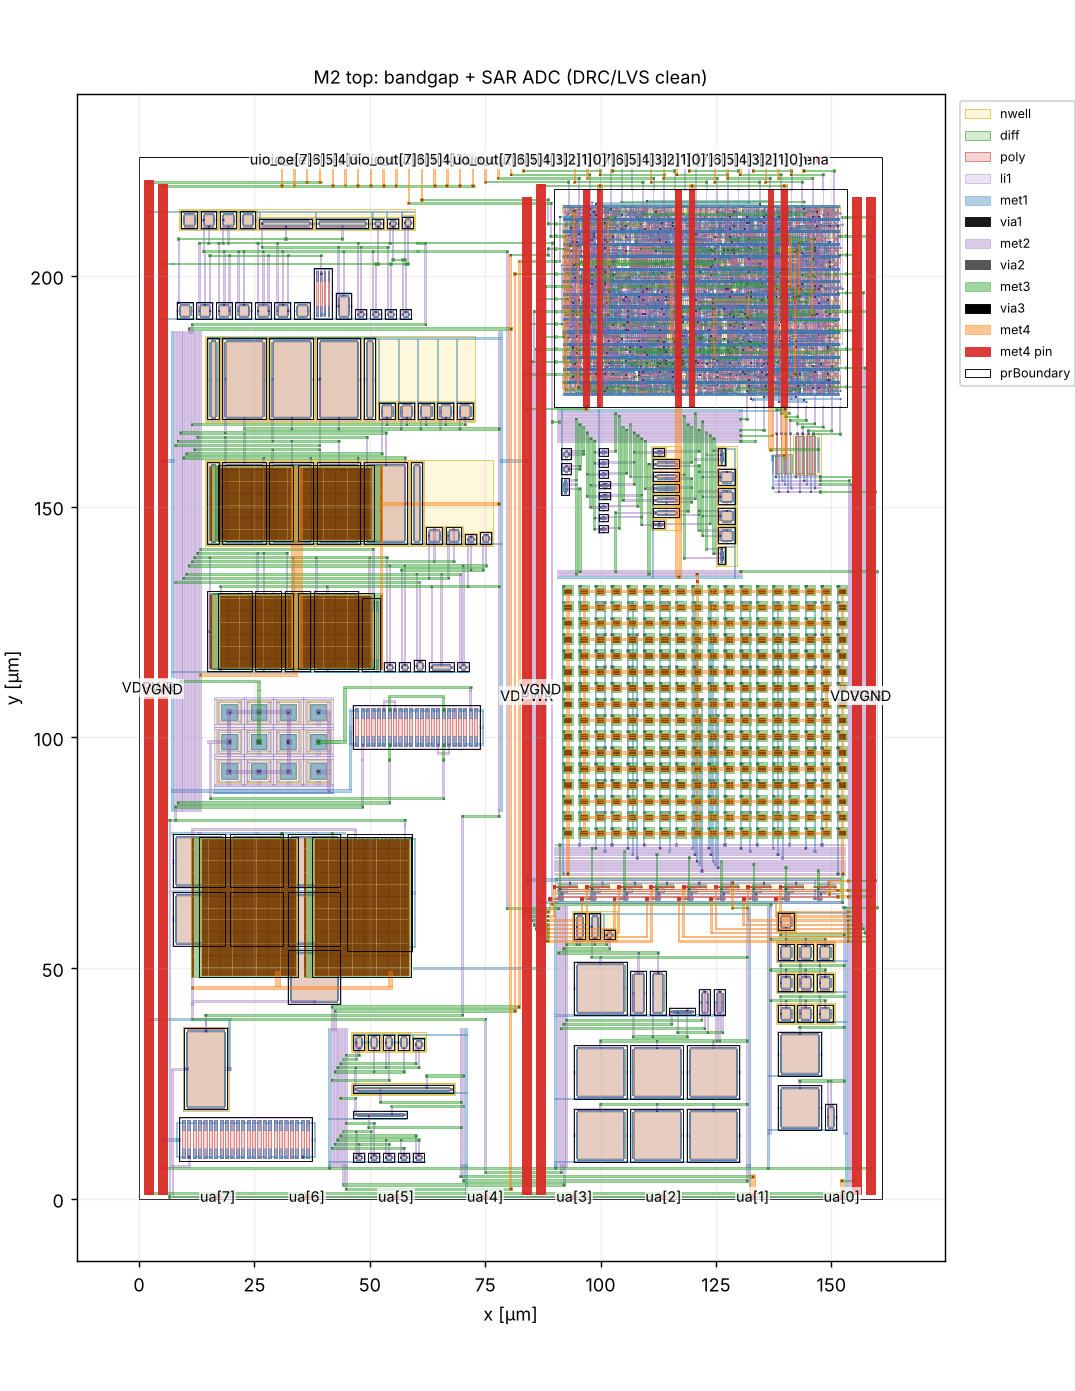
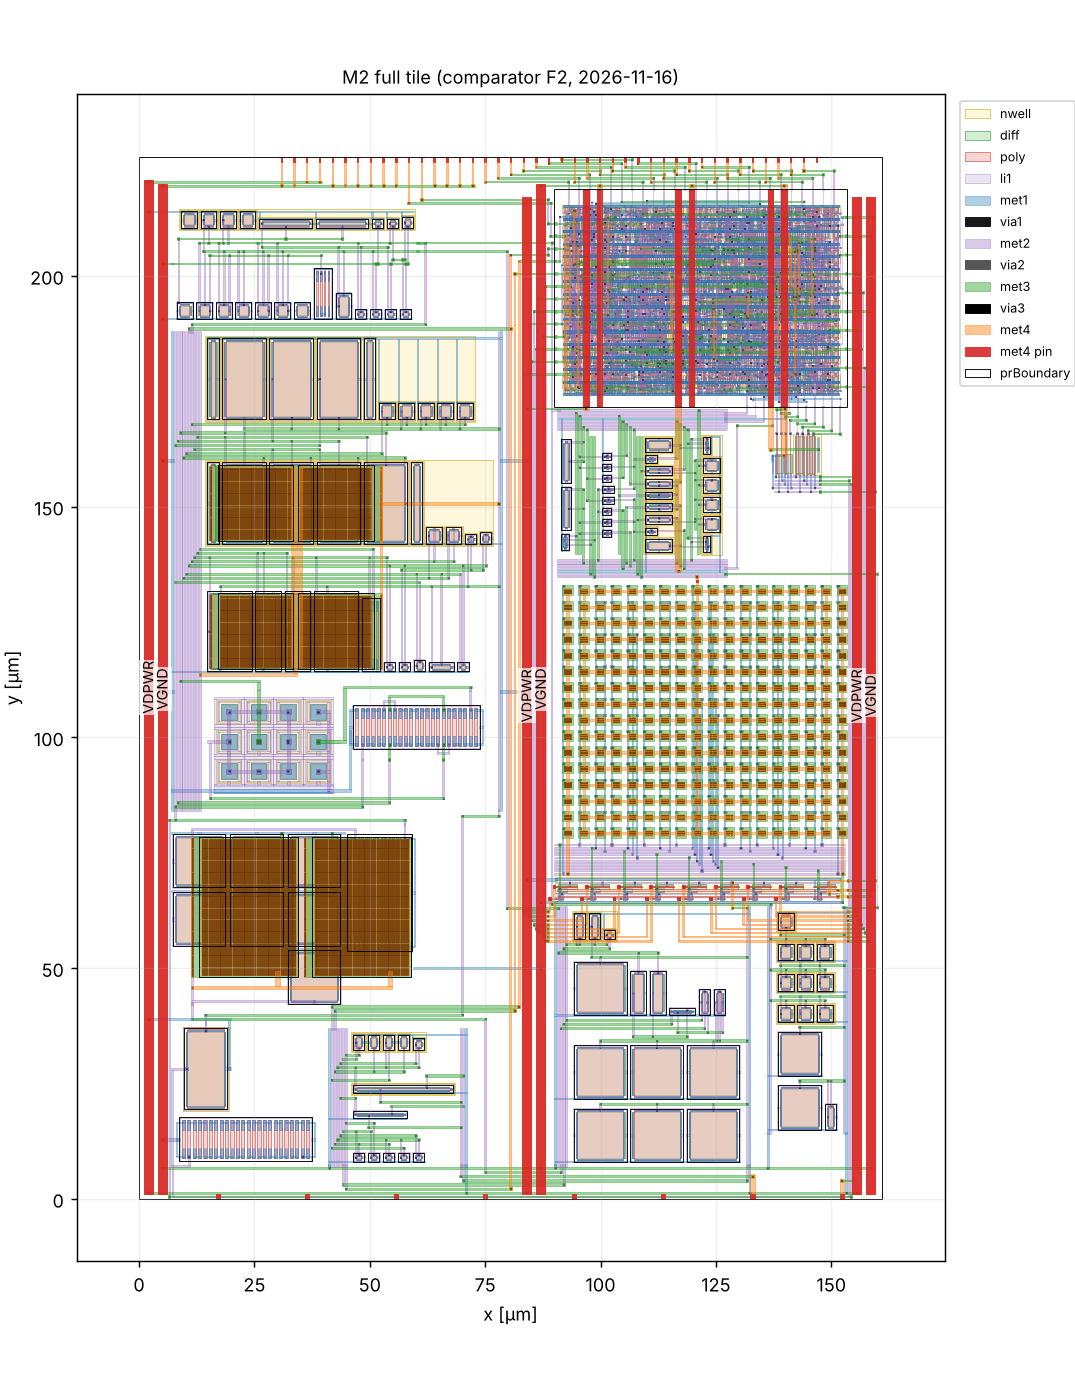
M2 post-layout: extracted tile = schematic codes (5/5); docs and pictures
sim/m2/README.md, results.md; stage_plan I4 g and stage 6; layout_plan post-layout paragraph;
material/layout/m2_top.png and comparator.png re-rendered.

Claude-Session: https://claude.ai/code/session_018xb9mH8bN9u9RTJdbtix1L

diff --git a/sim/m2/README.md b/sim/m2/README.md
@@ -1,0 +1,52 @@
+# M2 post-layout simulation: the whole tile
+
+Full conversions on `tt_um_chiranjitpatel_sar_adc`, driven only through its pins (as from the TT demo board).
+tt corner, 27 °C, VDPWR 1.8 V (Phase 3 key test, `CLAUDE.md`).
+
+| File | What |
+|---|---|
+| `make_tb.py [vin ...]` | writes `tb_m2_sch.spice` and `tb_m2_rc.spice` (default 5 inputs, 0.05–1.17 V) |
+| `decode.py` | decodes the codes 0.2 µs after each EOC rise, writes `results.md` |
+| `results.md` | schematic vs extracted vs ideal codes |
+
+Netlists:
+- **sch**: `layout/cells/m2_top_ref.spice` (written by `layout/m2_top.py`: the xschem analog subckts + LibreLane's
+  `adc_digital` gate-level netlist, the same netlist LVS uses).
+- **rc**: `python3 layout/m1_pex.py m2` → `sim/out/layout/m2_rc/m2_rc.spice`. Flat R+C of everything except
+  `adc_digital` (3258 R, 2858 C). The digital block is instanced from its LibreLane netlist on the extracted pin
+  nets (its timing is signed off by LibreLane STA); its met4 power straps stay in the extraction, because the
+  comparator and the inmux take VDPWR through them.
+
+Setup: internal reference (BG_PD = VREF_OE = REF_SEL = 0), INSEL = 0 (ua[0]), clk 1 MHz, START high, one
+conversion every 10 µs from 3 µs (the transient starts from the operating point, so the reference is settled;
+startup is covered in `sim/m1`). Pad models from `CLAUDE.md` rule 2 on ua[0] and ua[1] (ua[1] with a DMM load).
+
+## Result (2026-11-16, comparator F2)
+
+| vin (V) | ideal floor(256 vin / 1.2143) | sch | rc |
+|---|---|---|---|
+| 0.050 | 10 (10.54) | 10 | 10 |
+| 0.310 | 65 (65.35) | 65 | 65 |
+| 0.600 | 126 (126.49) | 127 | 127 |
+| 0.900 | 189 (189.74) | 190 | 190 |
+| 1.170 | 246 (246.66) | 247 | 247 |
+
+The extracted tile gives the schematic's code at every input. The schematic sits +1 code above floor() at
+the three upper inputs (126.49 → 127 etc.); the stage 8 / I3 runs showed the same (reference and switch
+details), it is common to both netlists. Run time: 34 min (sch), 51 min (rc) for 5 conversions.
+
+## What this test found (all fixed)
+
+1. **Comparator offset, −40 LSB.** The first rc run read 0 / 25 / 86 / 150 / 207 (sch 10 / 65 / 127 / 190 / 247).
+   The extracted comparator alone had a −64 mV offset: 2 fF of layout imbalance on a latch node moved its
+   toggle point by 25 to > 80 mV. Fixed in the circuit (xp/xn load caps, longer preamp load) and the layout
+   (mirrored buses): `sim/comparator/README.md`.
+2. **Comparator / inmux supply through the digital block.** Their VDPWR comes from digital straps 116.84 /
+   136.84, which reach the VDPWR stripe only through adc_digital's own power grid (std-cell rails, < 1 Ω
+   estimated). The first extraction deleted the block with its straps: the comparator floated, every code 0.
+   `m1_pex.py` now keeps the straps and stands in for the grid with a met3 bar. In the real layout this path is
+   LVS-clean; a direct strap-to-stripe tie would be more robust (optional, before the freeze).
+3. **Simulator settings.** `sim/m2` had no `.spiceinit` (sky130 compatibility mode, one thread): the runs took
+   > 2 h for one conversion. With it, the first clock edge failed with "timestep too small" in an xhigh_po
+   resistor (its R depends on abs(V), a kink at 0 V): `.options rshunt=1e12` (1 TΩ per node, ~1 pA) fixes it.
+   Settings: `reltol=1e-5 abstol=1e-12 vntol=1e-6 method=gear rshunt=1e12`.

diff --git a/docs/specs/stage_plan.md b/docs/specs/stage_plan.md
@@ -153,13 +153,13 @@ pass through simulation, layout and LVS on a small block.
 | 3 Bandgap | ✅ 2026-11-01 (resized 11-08) | ✅ 2026-11-08 | ✅ 2026-11-08: corners 63/63, MC σ 17.6 mV (B6 open) | ✅ scripted (M5/M7 units 11-14) | ✅ | ✅ | ✅ 2026-11-14 (M1): VBG −0.7 mV vs schematic | `sim/bandgap/README.md`: VBG 1.215 V (B1 margin), 15.7 µA, PM 82.5°, 22 ppm/°C at tt; raw PSRR at 1 MHz fails (fixed by the stage 5 filter) |
 | 4 PTAT | ✅ 2026-11-07 (resized 11-08) | ✅ 2026-11-08 | ✅ 2026-11-08: corners ≤ 2.6 °C, MC needs 2-point cal. (B13 open) | ✅ scripted | ✅ | ✅ | ✅ 2026-11-14 (M1): VPTAT +0.4 mV | `sim/ptat/README.md`: 0.599 V, 2.00 mV/°C, VBG unaffected, loop PM 79.9° |
 | 5 VREF chain | ✅ 2026-11-07 (filter grown 11-08; MIM + tail 2 × 8/2 11-14) | ✅ 2026-11-08 | ✅ 2026-11-08: 45/45 run, B7 DC open at 1.62 V | ✅ scripted | ✅ | ✅ | ✅ 2026-11-14 (M1): B7 ≥ 22.7 dB at 1 MHz in 45/45 corners (`sim/m1/`) | `sim/vref/README.md`: B7 met at vbg_f, DAC-load error 25 µV, stable with pad, external-ref mode works |
-| 6 Comparator | ✅ 2026-11-07 | ✅ 2026-11-07 | | ✅ scripted 11-16 | ✅ | ✅ | | `sim/comparator/README.md`: 0.44 ns at 1 mV, no net kickback; MC offset/noise in Phase 2 |
+| 6 Comparator | ✅ 2026-11-07 (load caps + MAL 0.5/8 11-16) | ✅ 2026-11-07 | | ✅ scripted 11-16 (mirrored) | ✅ | ✅ | ✅ 2026-11-16: offset +5 mV vs +1 mV sch | `sim/comparator/README.md`: 3.2–3.7 ns at ~1 mV; 2 fF layout imbalance → ≤ 3 mV (was > 80 mV); stage 6 TBs to be re-run for the new sizing; MC offset/noise in Phase 2 |
 | 7 Switch + mux | ✅ 2026-11-07 | ✅ 2026-11-07 | | ✅ scripted 11-16 | ✅ | ✅ | | `sim/inmux/README.md`: A9/A14 met; VPTAT/VBG need clk ≤ 100 kHz (decided) |
 | 8 Cap DAC | ✅ 2026-11-07 | ✅ 2026-11-07 | | ✅ scripted 11-16 | ✅ | ✅ | | `sim/dac/README.md`: all 256 codes, DNL 0.001 / INL 0.0007 LSB (ideal caps), 0.6 pA top-plate leak; MC in Phase 2 |
 | 9 SAR logic | ✅ 2026-11-07 (Verilog) | ✅ RTL + gate-level | | ✅ LibreLane 11-16 | ✅ | ✅ | | `src/sar/README.md`: 0 errors in 2764 conversions; 136 cells, 1217 µm²; SPICE check in I2 |
 | I1 Analog core | — | — | | | | | | merged into I2: the real SAR logic was verified first, so I2 uses it directly |
 | I2 Full ADC | ✅ 2026-11-07 | ✅ 5/5, 18/18 edges, ENOB 8.04 | | | | | | `sim/adc/README.md`: 5/5 exact codes after two fixes (smpt glitch, comparator preamp); edges + sine running |
 | I3 Self-referenced | ✅ 2026-11-07 | ✅ 5/5 exact | | | | | | real bandgap → filter → buffer reference (1.2143 V) |
-| I4 Top level | ✅ | | | ✅ 2026-11-16 (M2) | ✅ Magic + KLayout 0 | ✅ full chip | | `layout/m2_top.py`, `material/layout/m2_top.png`; post-layout sim next |
+| I4 Top level | ✅ | | | ✅ 2026-11-16 (M2) | ✅ Magic + KLayout 0 | ✅ full chip | ✅ 2026-11-16: 5/5 codes rc = sch | `layout/m2_top.py`, `material/layout/m2_top.png`, `sim/m2/README.md`; post-layout found a −40 LSB comparator offset (fixed) |
 
 a = schematic, b = Phase 1 sim, c = Phase 2 sim, d = layout, e = DRC, f = LVS, g = post-layout sim.

diff --git a/docs/specs/layout_plan.md b/docs/specs/layout_plan.md
@@ -149,7 +149,7 @@ integration, full-chip LVS, post-layout simulation.
 Floorplan v4 (`layout/floorplan_v4.py`, positions from the real cells; `layout/m2_place.py` builds a
 placement-only top and writes every pin's absolute position to `sim/out/layout/m2p/pins.json`).
 Right half, bottom to top: vref_buf (M1), vcm_gen (bottom right), `dac` (array + switches, 88.6-153.5 x
-64.0-134.05), comparator (rotated, 90.5-130.6 x 134.6-171.0), adc_digital (90.0-153.5 x 171.6-218.9).
+64.0-134.05), comparator (rotated, 90.5-127.4 x 134.6-171.1 since the F2 redraw), adc_digital (90.0-153.5 x 171.6-218.9).
 The only ways past the array are two corridors: R4 under the middle stripes (x 83-88.4, met2/met3 free)
 and R3 under the right stripes (x 153.75-160.7). Routing plan:
 - gn/gpb bits 7-4 (west pins) down R4 on met2, met3 jog right at y 56.8-62.4, met4 tracks under the dac
@@ -182,5 +182,15 @@ Picture: `material/layout/m2_top.png`. Differences from the plan above:
 - adc_digital is read with `gds readonly true`: Magic's rewrite of the std cells' implant layers failed
   KLayout FEOL (hvtp/nsdm spacing, 21 errors), the verbatim LibreLane GDS is clean.
 
-Next: M2 post-layout simulation (extracted top in the ADC testbench), CI precheck on the pushed GDS.
+**Post-layout (2026-11-16).** `sim/m2/README.md`: 5 conversions on the extracted tile give the schematic's
+codes (10 / 65 / 127 / 190 / 247). The first run read ~40 LSB low: the comparator's latch nodes (~10 fF,
+preamp gain ~2) turned fF of routing imbalance into −64 mV of offset. Fixed by xp/xn load caps and a 0.5/8
+preamp load (schematic) plus mirrored side buses and tracks (`mos_rows` options `bus_order`, `mirror`); the
+extracted comparator is now within ~4 mV of the schematic (`sim/comparator/README.md`). Top-level changes:
+pbias, smpt/clkb/opb join the comparator buses on met2; onb (now on the comparator's other side) runs down its
+right edge. Magic DRC 0, KLayout 0/0/0, LVS match after the change.
+Open: the comparator and the inmux get VDPWR only through adc_digital's power grid (LVS-clean; a direct tie of
+straps 116.84 / 136.84 to the stripe would be more robust); stage 6 testbenches for the new comparator sizing.
+
+Next: CI precheck on the pushed GDS; Phase 2 Monte Carlo (comparator, cap DAC) on the final cells.
 

diff --git a/sim/m2/results.md b/sim/m2/results.md
@@ -4,8 +4,8 @@ Generated by `decode.py` from `make_tb.py` runs; internal reference, input on ua
 
 | vin (V) | ideal floor(256 vin / 1.2143) | sch | rc |
 |---|---|---|---|
-| 0.050 | 10 (10.54) | — | — |
-| 0.310 | 65 (65.35) | — | — |
-| 0.600 | 126 (126.49) | — | — |
-| 0.900 | 189 (189.74) | — | — |
-| 1.170 | 246 (246.66) | — | — |
+| 0.050 | 10 (10.54) | 10 | 10 |
+| 0.310 | 65 (65.35) | 65 | 65 |
+| 0.600 | 126 (126.49) | 127 | 127 |
+| 0.900 | 189 (189.74) | 190 | 190 |
+| 1.170 | 246 (246.66) | 247 | 247 |
